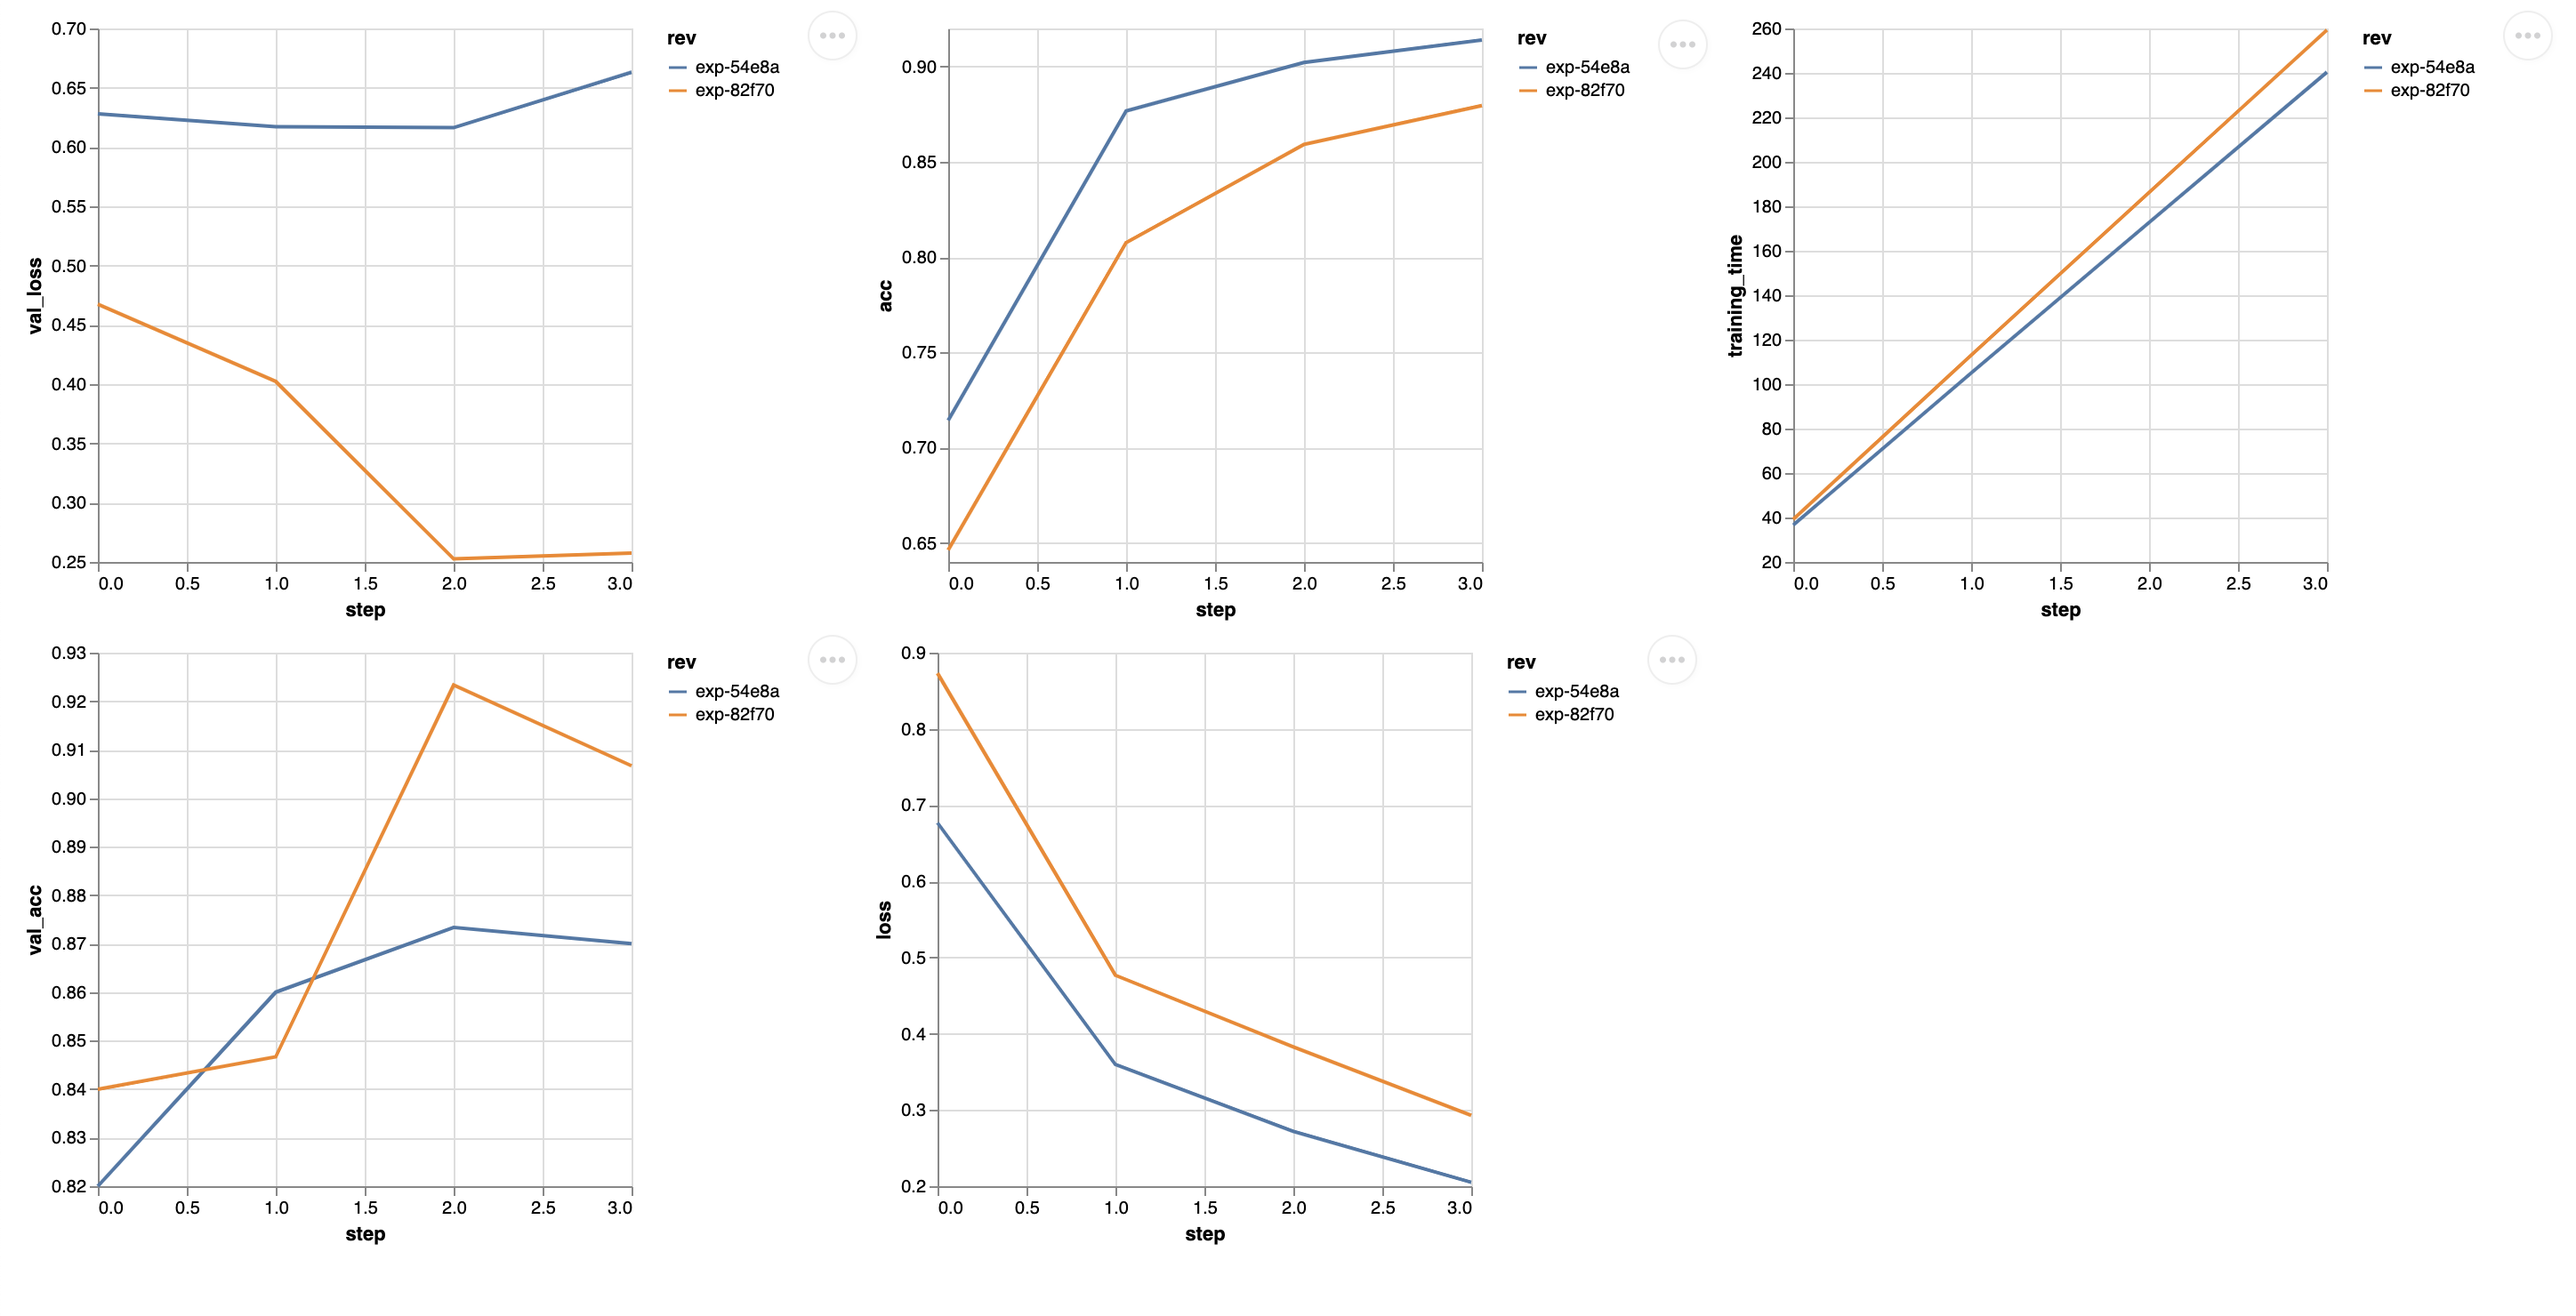
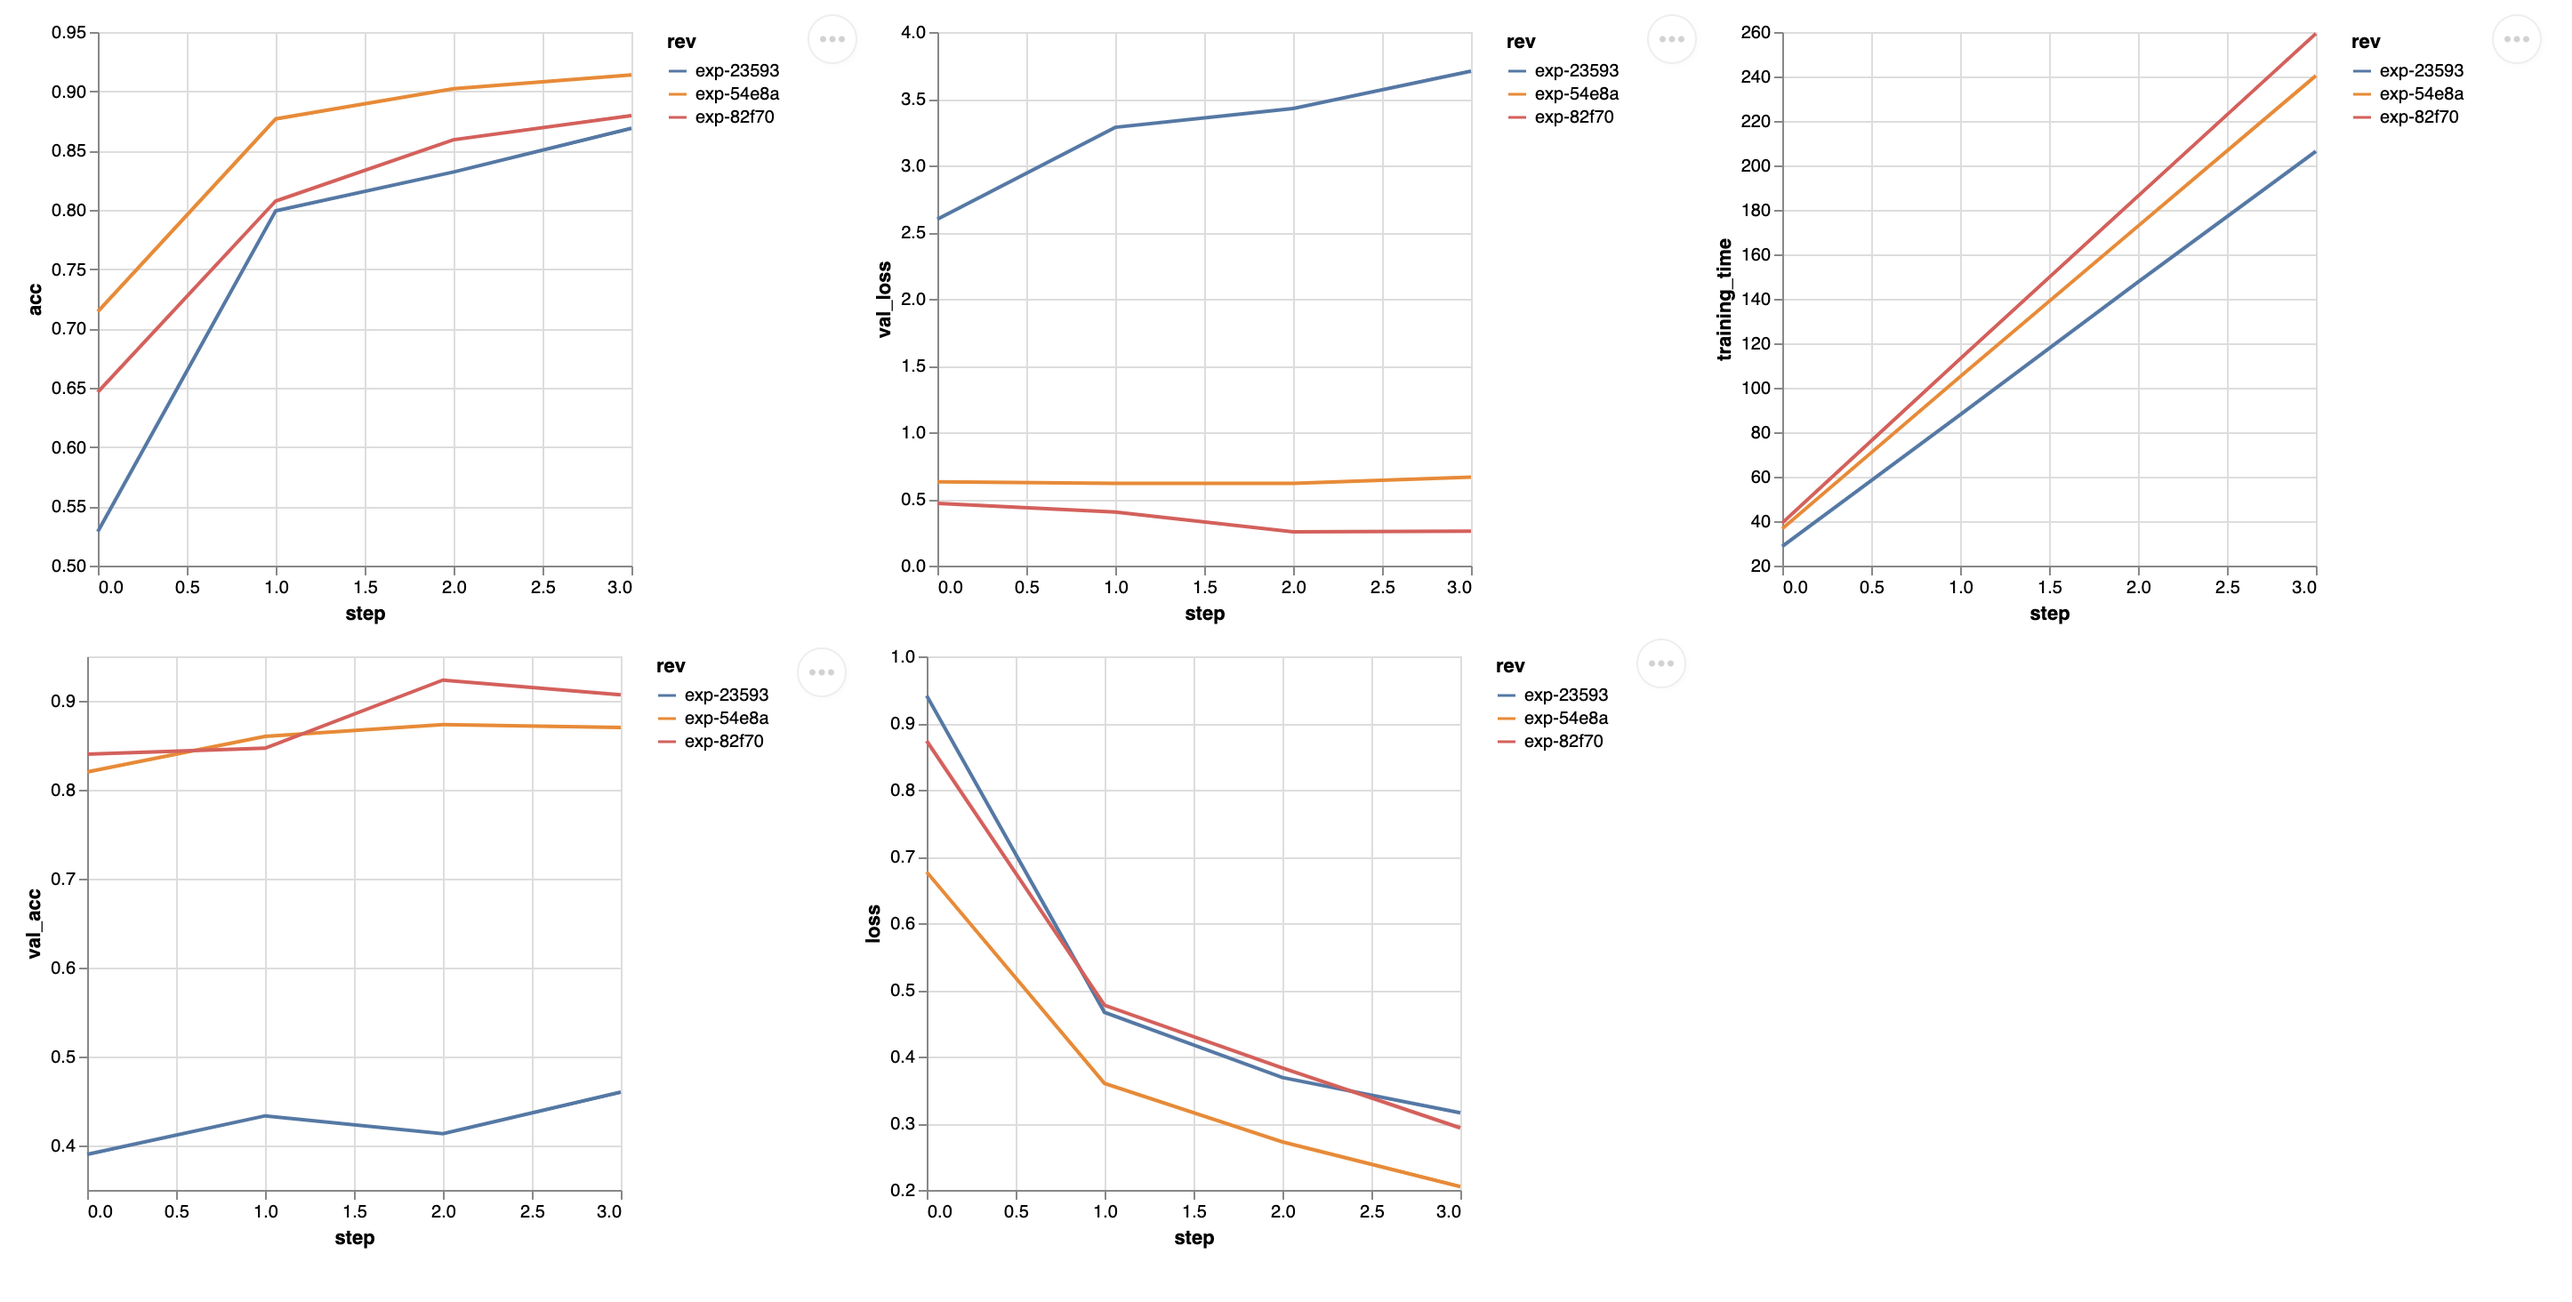
updated cats and dogs comparison plot

diff --git a/content/blog/2021-10-05-extending-models-with-more-data.md b/content/blog/2021-10-05-extending-models-with-more-data.md
@@ -232,7 +232,7 @@ do some other experiments. We can look at a comparison between the experiments
 with the `cats` data and both the `cats` and `dogs` data.
 
 ```dvc
-dvc plots diff exp-54e8a exp-82f70
+dvc plots diff exp-23593 exp-54e8a exp-82f70
 ```
 
 ![plot of differences between model with just cats data and model with both cats and dogs data](2021-10-05/with-cats-and-dogs-data.png)
